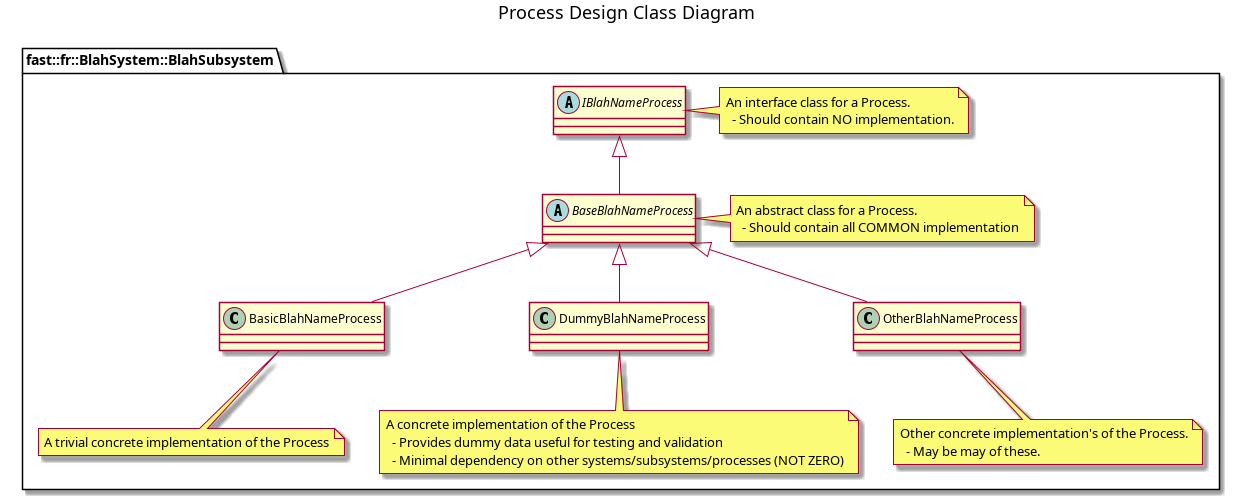
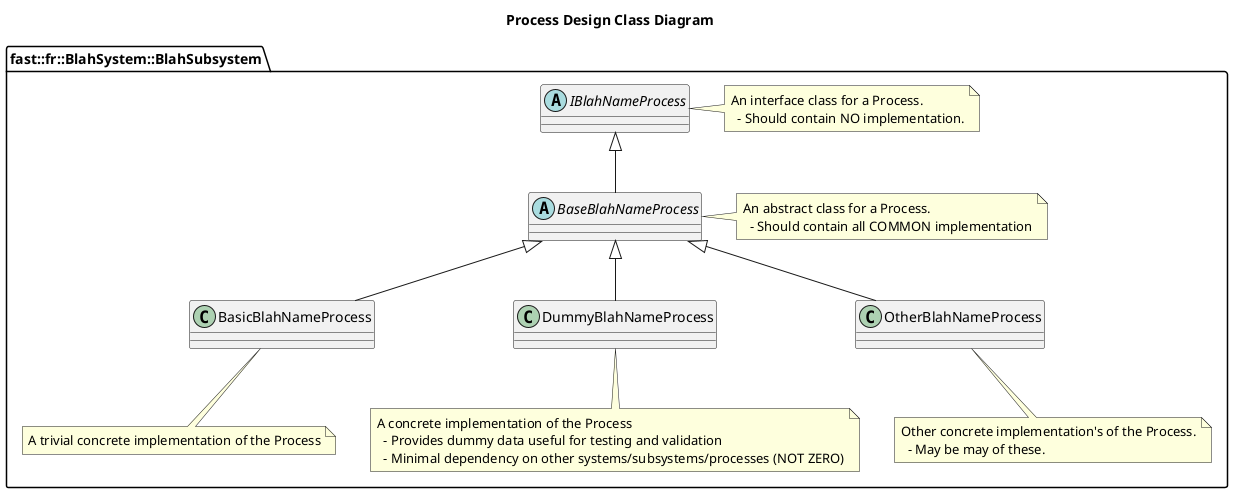
WIP

diff --git a/README.md b/README.md
@@ -20,7 +20,9 @@ cd <repo>
 sudo apt update
 pip install --upgrade pip
 pip install pre-commit
-sudo apt install plantuml
 pipx install cmake-format
- sudo cp /usr/share/plantuml/plantuml.jar /usr/bin/
+pushd ~/Downloads
+wget https://github.com/plantuml/plantuml/releases/download/v1.2026.6/plantuml-1.2026.6.jar
+sudo mv plantuml-*.jar /usr/bin/plantuml.jar
+popd
 ```